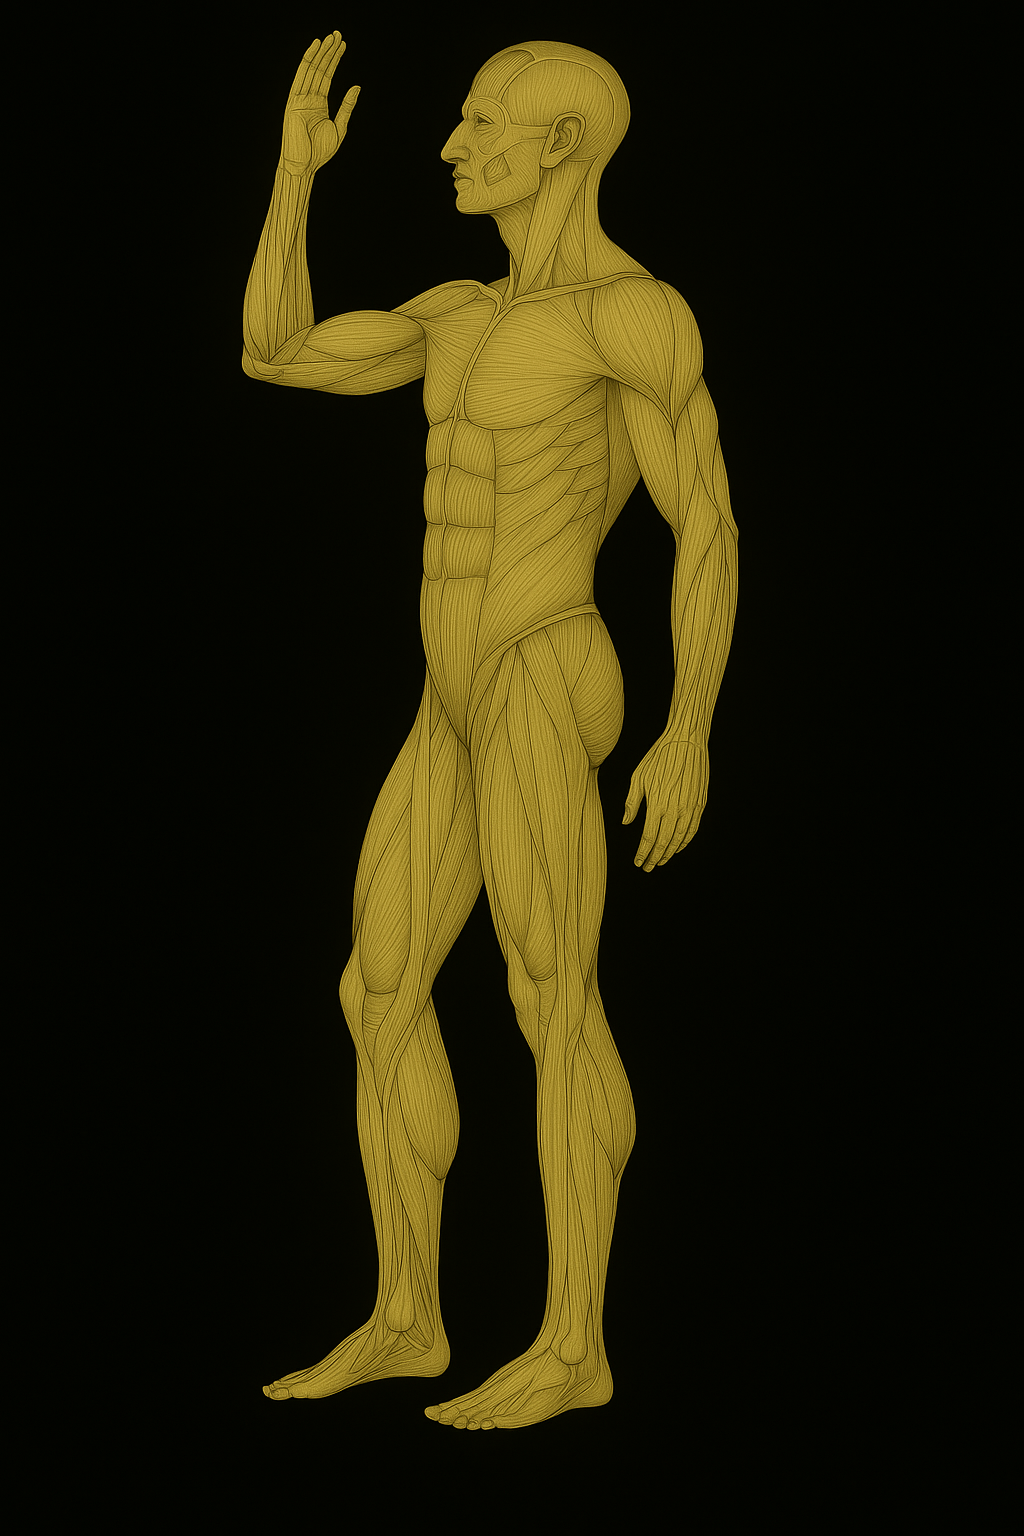
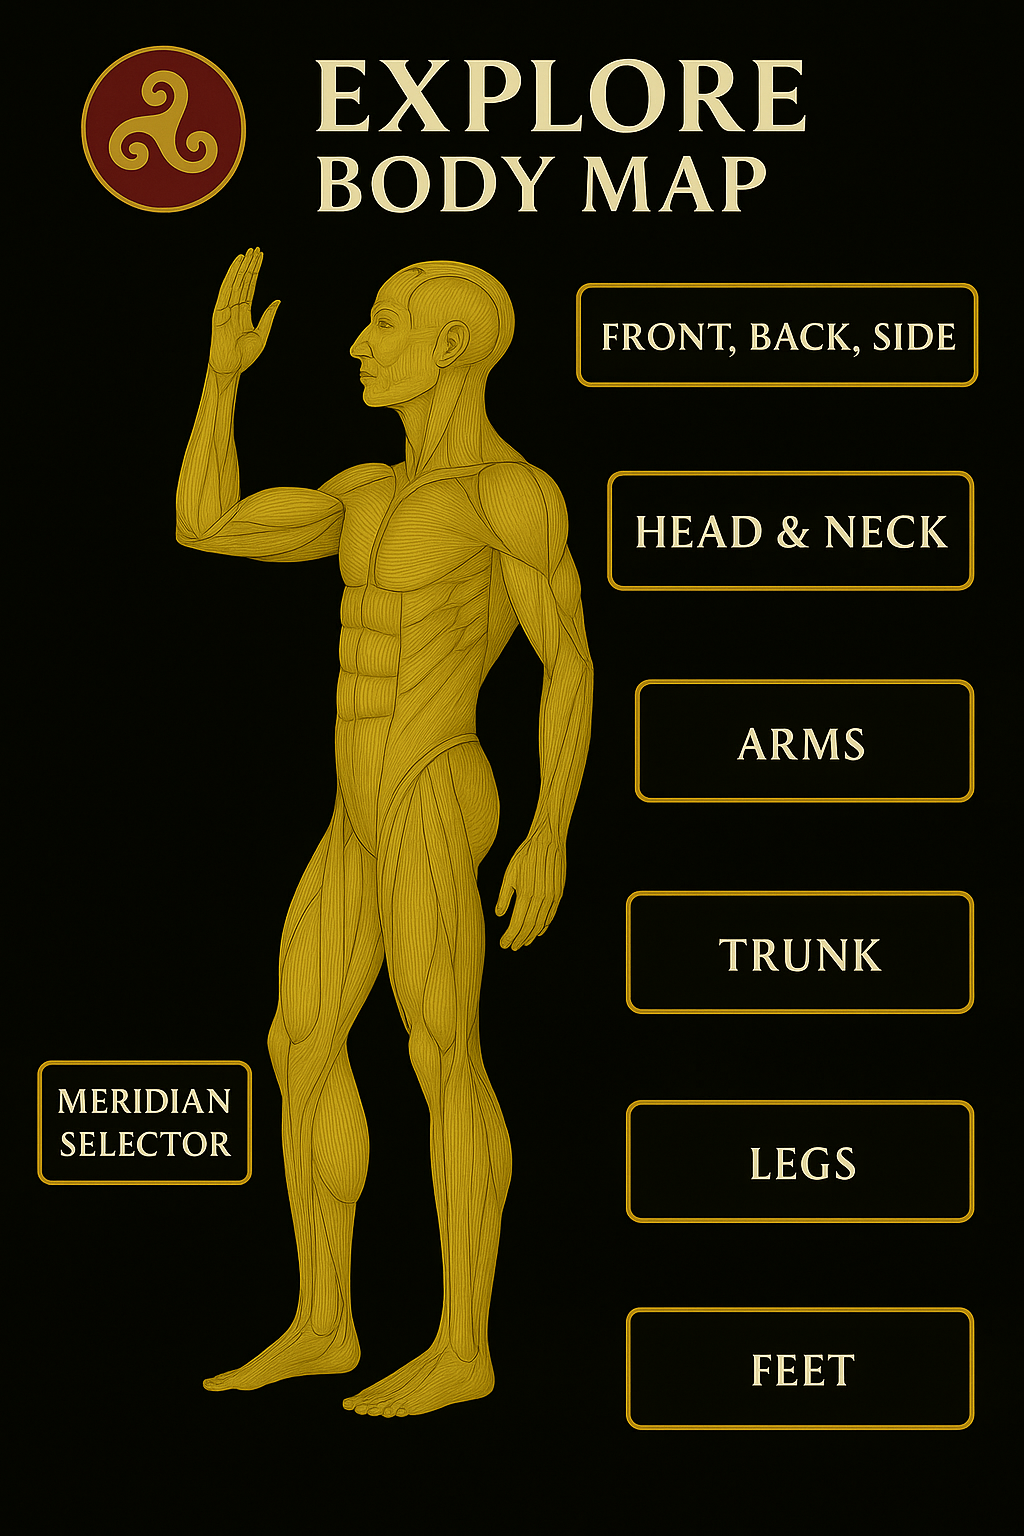
🗺 Complete Body Map system: front/back/side full views with precise button mappings

diff --git a/src/components/BodyMapInteractive.jsx b/src/components/BodyMapInteractive.jsx
@@ -16,15 +16,31 @@ const BodyMapInteractive = () => {
     'LargeIntestine', 
     'Stomach',
     // Future: Heart, SmallIntestine, Bladder, Kidney, Pericardium, TripleWarmer, Gallbladder, Liver
-  ];
-
-  // Load region buttons data
+  ];  // Load region buttons data based on current view
   useEffect(() => {
-    fetch('/data/region_buttons.json')
+    const buttonFileMap = {
+      'front': 'region_buttons.json',
+      'back': 'button_map_back.json', 
+      'side': 'button_map_side.json'
+    };
+    
+    const buttonFile = buttonFileMap[currentView] || 'region_buttons.json';
+    
+    fetch(`/data/${buttonFile}`)
       .then(res => res.json())
-      .then(data => setRegionButtons(data))
-      .catch(err => console.log('Region buttons not found:', err));
-  }, []);
+      .then(data => {
+        console.log(`Loaded ${currentView} view buttons:`, data);
+        // Filter for region buttons only (exclude UI elements)
+        const regionButtons = data.filter(button => 
+          !['Front, Back, Side', 'logo home button', 'Meridian Selector'].includes(button.label)
+        );
+        setRegionButtons(regionButtons);
+      })
+      .catch(err => {
+        console.log(`Button mapping not found for ${currentView}:`, err);
+        setRegionButtons([]);
+      });
+  }, [currentView]);
 
   // Load points data when view, region, or meridian changes
   useEffect(() => {
@@ -134,24 +150,31 @@ const BodyMapInteractive = () => {
                 e.target.style.display = 'none';
               }}
             />
-            
-            {/* Region Buttons Overlay (only on full view) */}
-            {currentRegion === 'full' && regionButtons[currentView] && (
+              {/* Region Buttons Overlay (only on full view) */}
+            {currentRegion === 'full' && regionButtons.length > 0 && (
               <>
-                {regionButtons[currentView].map((region, index) => (
-                  <button
-                    key={index}
-                    onClick={() => handleRegionClick(region.name)}
-                    className="absolute bg-blue-500 bg-opacity-20 border-2 border-blue-400 hover:bg-opacity-40 transition-all"
-                    style={{
-                      left: `${region.x * 100}%`,
-                      top: `${region.y * 100}%`,
-                      width: `${region.width * 100}%`,
-                      height: `${region.height * 100}%`
-                    }}
-                    title={`Zoom to ${region.name}`}
-                  />
-                ))}
+                {regionButtons.map((region, index) => {
+                  // Convert label to region name format
+                  const regionName = region.label.toLowerCase()
+                    .replace('&', '')
+                    .replace(/\s+/g, '')
+                    .replace('headneck', 'head');
+                  
+                  return (
+                    <button
+                      key={index}
+                      onClick={() => handleRegionClick(regionName)}
+                      className="absolute bg-blue-500 bg-opacity-20 border-2 border-blue-400 hover:bg-opacity-40 transition-all rounded"
+                      style={{
+                        left: `${region.x * 100}%`,
+                        top: `${region.y * 100}%`,
+                        width: `${region.width * 100}%`,
+                        height: `${region.height * 100}%`
+                      }}
+                      title={`Zoom to ${region.label}`}
+                    />
+                  );
+                })}
               </>
             )}
 
